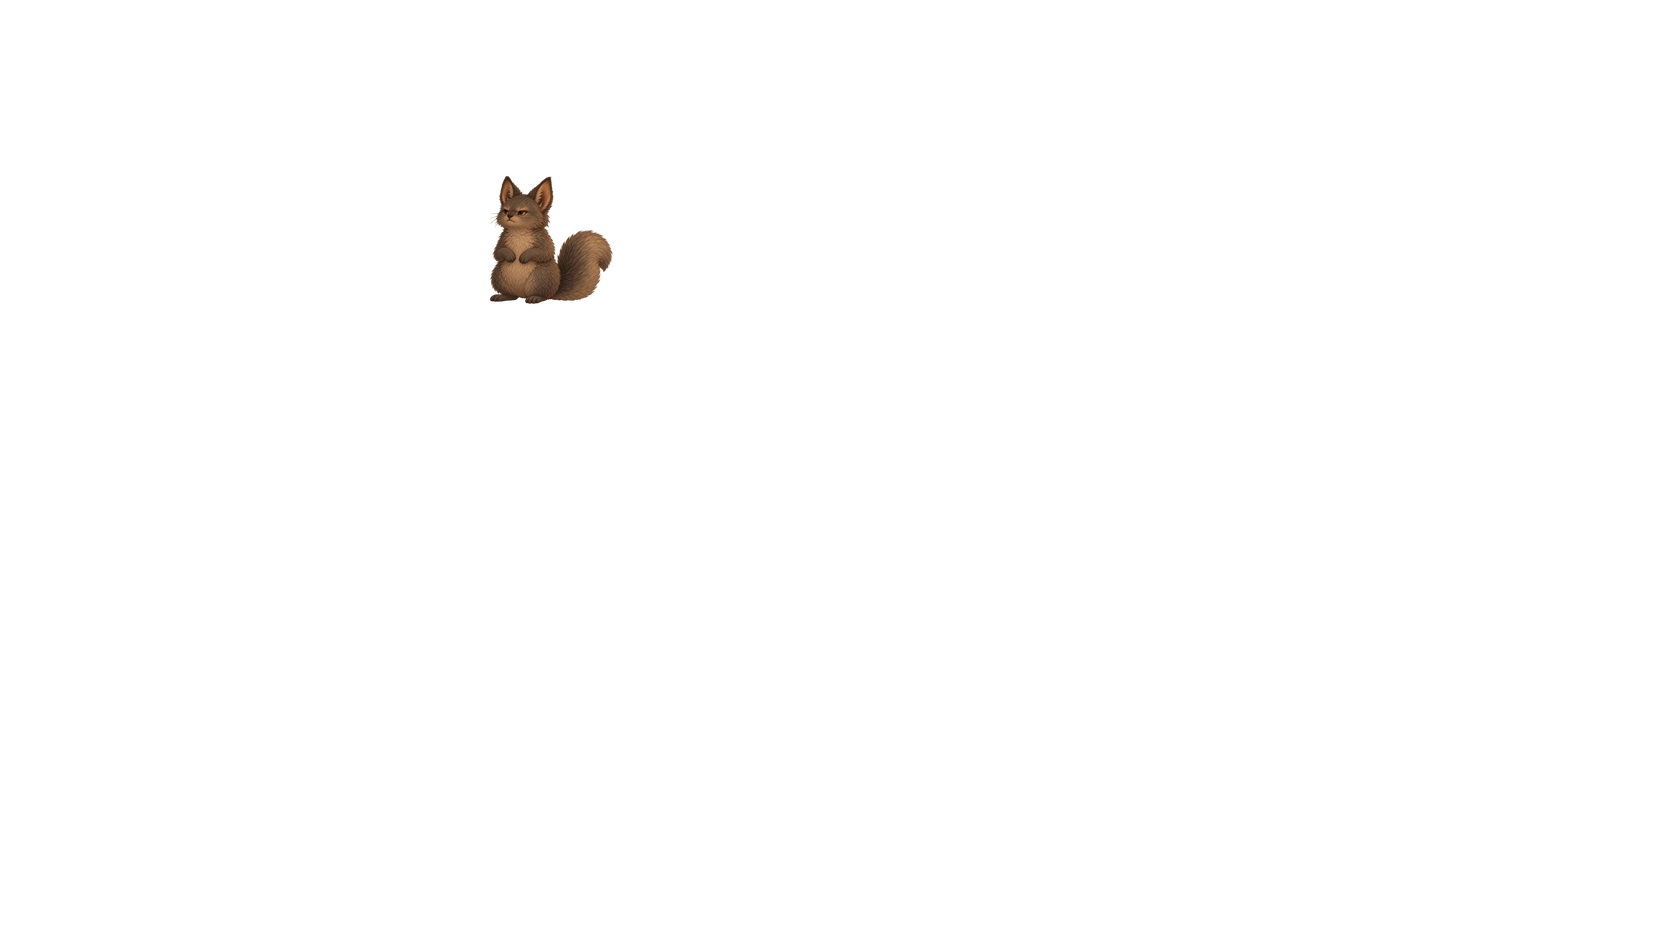
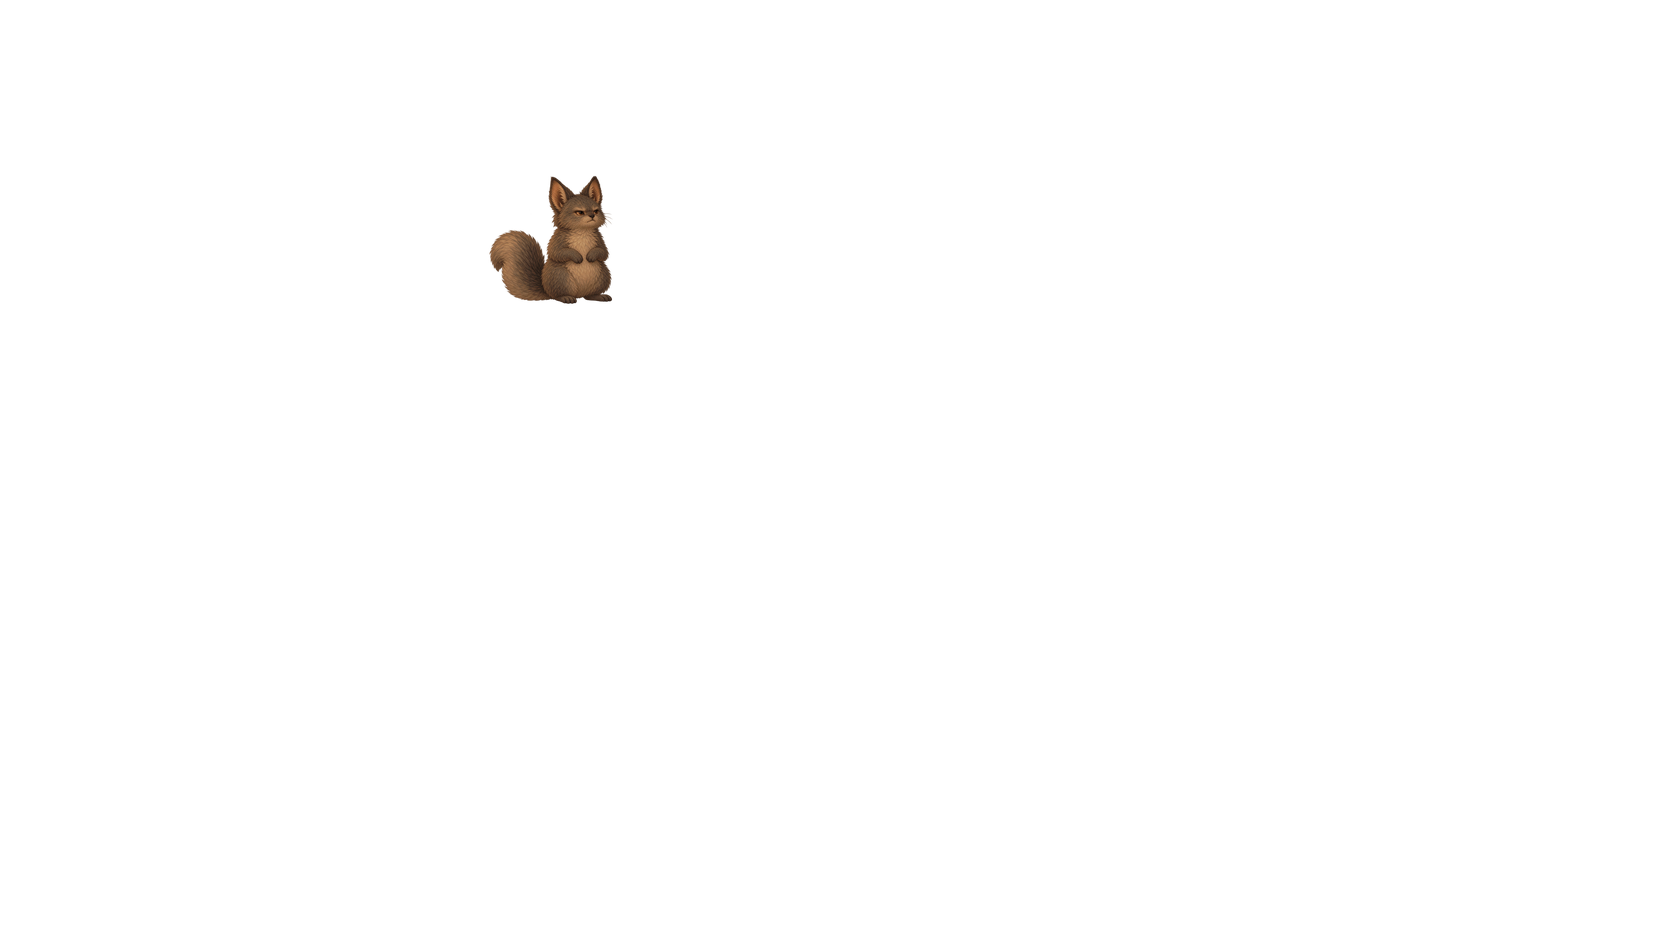
Партия J, последний кадр (стр. 199, 202): свеча горит на фитиле — живое пламя и ореол (свет стоял выше свечи), снег за окнами по створкам, чашка Нины крупнее и на столе, Тихон повёрнут к людям (mirror в make_frame_layers); тест J-E3 [skip ci]
Claude-Session: https://claude.ai/code/session_01Qvdjz1zmfr41cRSvLxvjeK

Changed region(s): [[0.2799, 0.1849, 0.3732, 0.339]]

diff --git a/tools/make_frame_layers.py b/tools/make_frame_layers.py
@@ -24,7 +24,7 @@ compose — персонаж:
    "hide_feather": 1.0}       — мягкость края скрытия, px.
 compose — вещь (кусок другой картинки):
   {"src": "game/assets/rooms/H1/state_cup_table_blue.png", "crop": [x, y, w, h], "at": [x, y], "width": w,
-   "tint": [...], "rotate": градусы, "alpha": 0..1, "shadow": 0}
+   "tint": [...], "rotate": градусы, "alpha": 0..1, "shadow": 0, "mirror": false}
 Повторный запуск с теми же исходниками даёт те же файлы; --check сверяет без записи (код 1 — расходятся или нет файла).
 Когда приходят листы 3D (assets/characters/<имя>/), запуск без правки данных заменяет заглушки фигурами из листов.
 Нужен Pillow. Запуск: python3 tools/make_frame_layers.py [--check] [ID …]
@@ -139,6 +139,8 @@ def render(c: dict, size: tuple[int, int]) -> Image.Image:
     if "width" in c:
         k = float(c["width"]) / src.size[0]
         src = src.resize((max(1, round(src.size[0] * k)), max(1, round(src.size[1] * k))), Image.LANCZOS)
+    if c.get("mirror"):
+        src = src.transpose(Image.Transpose.FLIP_LEFT_RIGHT)   # J (стр. 199): Тихон на ужине — лицом к людям
     if c.get("rotate"):
         src = src.rotate(float(c["rotate"]), resample=Image.BICUBIC, expand=True)
     src = tinted(src, c.get("tint"))
